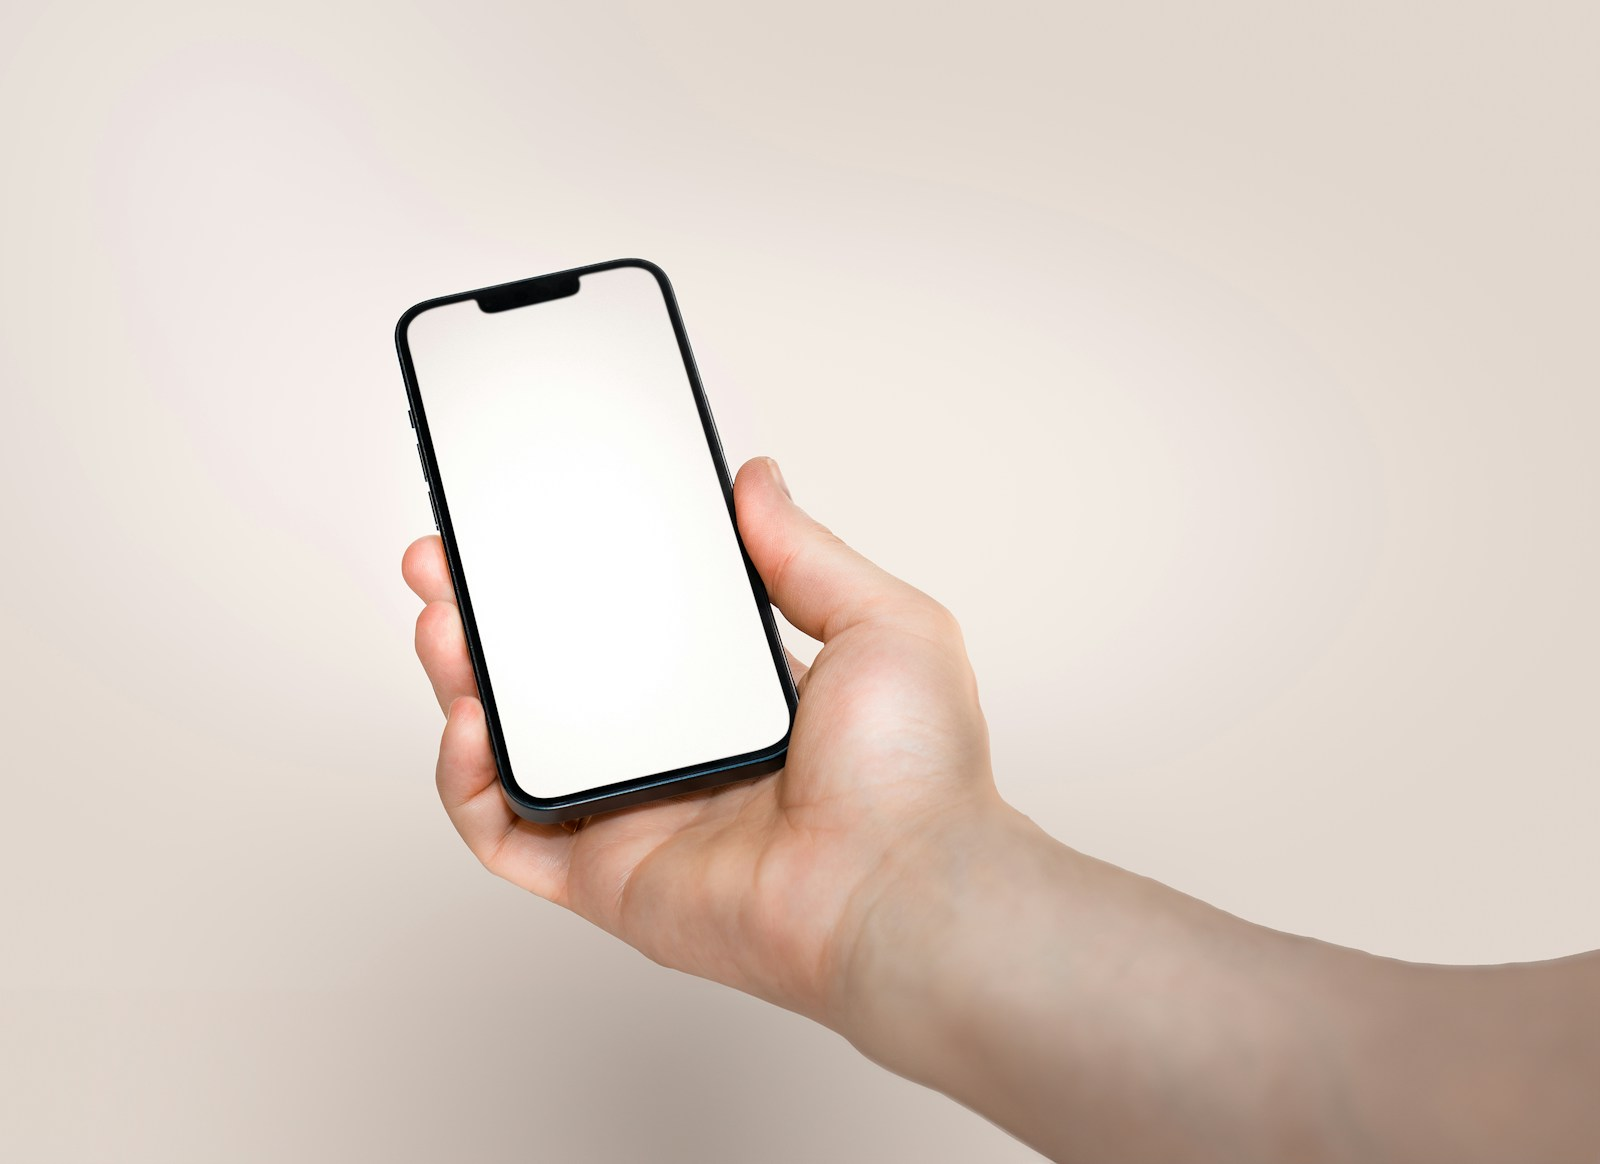
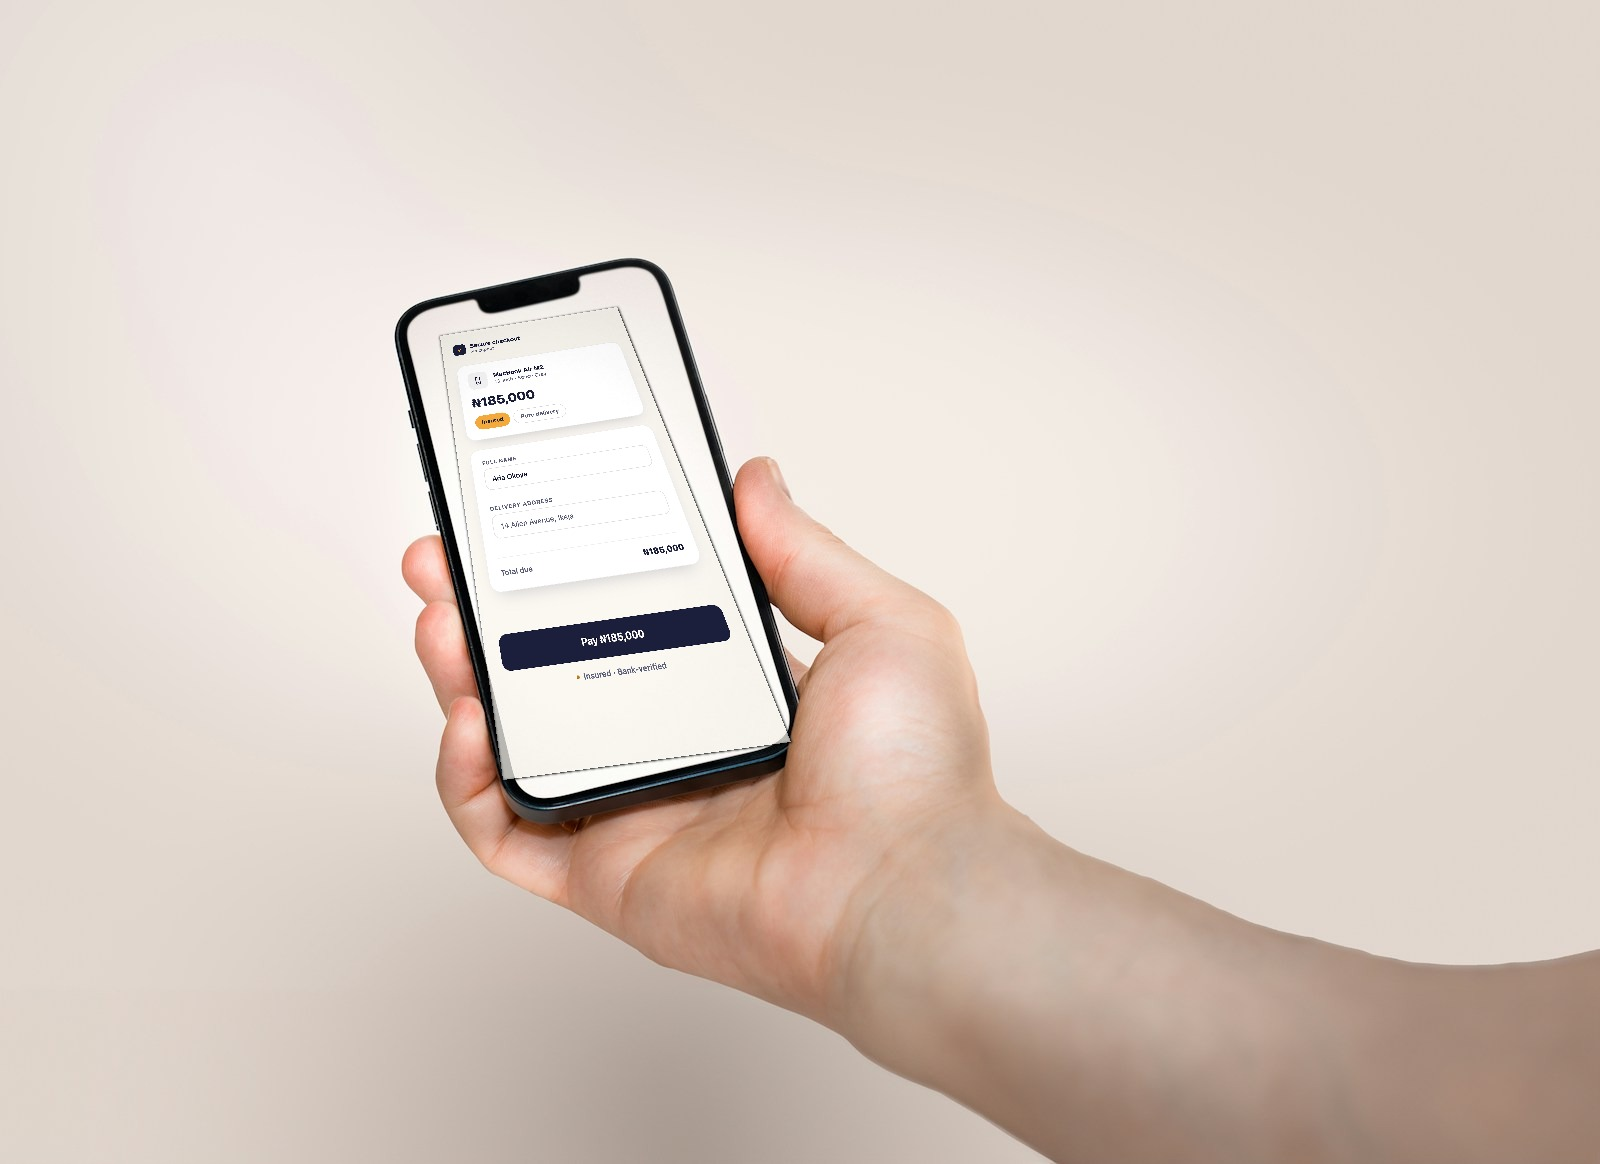
Composite a real checkout UI onto the phone screen photo
The checkout-phone.jpg screen was blank. Perspective-warped a rendered
Zapeet checkout mockup (item, insured toggle, name/address fields, pay
button) onto the actual screen quad in the photo, with a lighting map
pulled from the original screen region so it inherits the photo's real
highlights/shadow instead of looking flatly pasted on.

Claude-Session: https://claude.ai/code/session_018neCt73LwHZZmD6soK9DGw

diff --git a/src/components/hero.tsx b/src/components/hero.tsx
@@ -23,7 +23,7 @@ const statusRows = [
 
 export function Hero() {
   return (
-    <section className="relative overflow-hidden pt-10 sm:pt-16 lg:pt-20">
+    <section className="relative overflow-x-hidden pt-10 pb-20 sm:pt-16 sm:pb-24 lg:pt-20 lg:pb-28">
       <div className="mx-auto grid max-w-7xl gap-16 px-5 sm:px-8 lg:grid-cols-[0.92fr_1.08fr] lg:items-center lg:gap-12">
         <div className="flex flex-col items-start gap-6">
           <motion.p
